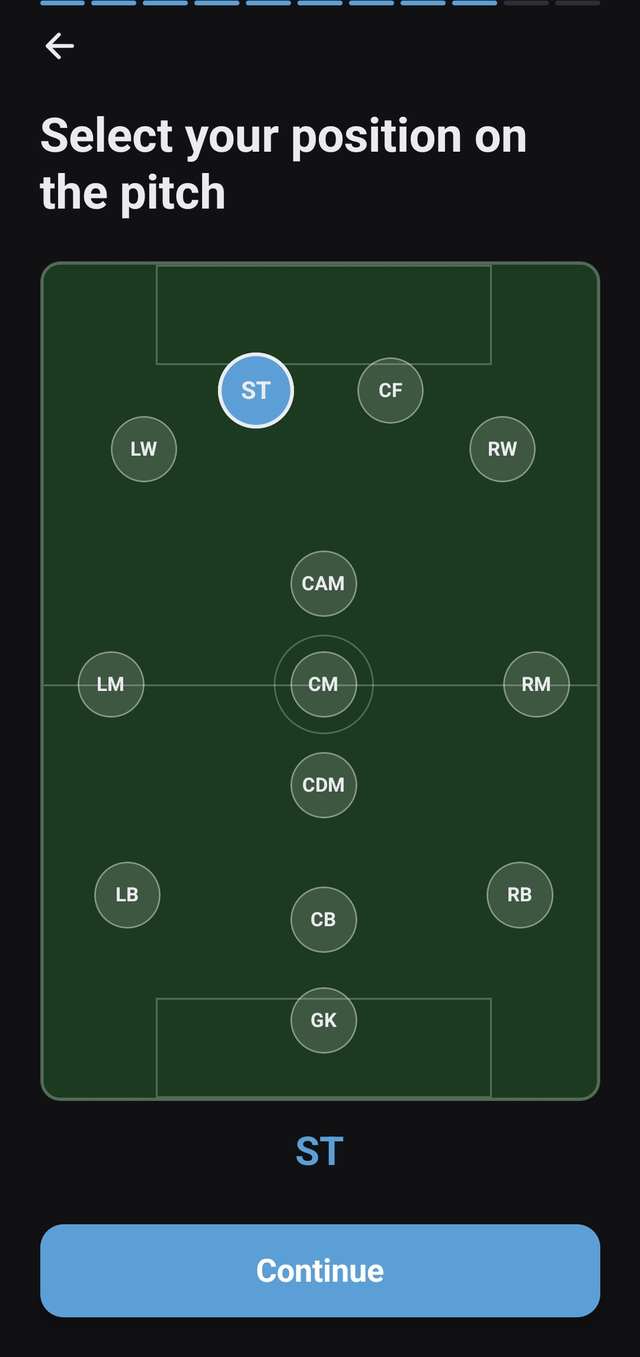
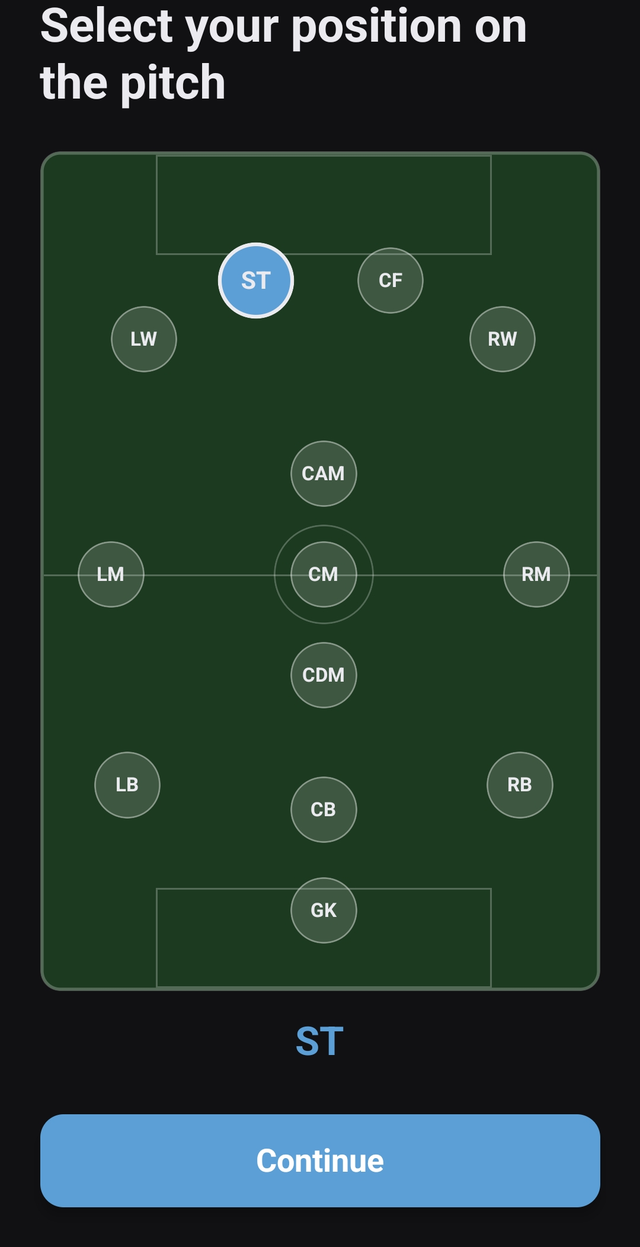
Polish hero, phone frames, mobile nav, and screenshots
- Add hamburger MobileNav for <md viewports
- Stronger phone-frame border (white/25), drop fake notch
- Crop iOS back-arrow / progress dashes off three screenshots
- Hero: prominent uppercase "Download / Pobierz" CTA above badges
- UsedBy mobile: stretch cells so grid bg doesn't bleed below shorter cards
- Ignore *.bak (local screenshot backups)

diff --git a/components/MobileNav.tsx b/components/MobileNav.tsx
@@ -1,0 +1,75 @@
+"use client";
+
+import Link from "next/link";
+import { usePathname } from "next/navigation";
+import { useEffect, useState } from "react";
+
+interface NavItem {
+  href: string;
+  label: string;
+}
+
+interface Props {
+  nav: NavItem[];
+}
+
+export function MobileNav({ nav }: Props) {
+  const [open, setOpen] = useState(false);
+  const pathname = usePathname();
+
+  useEffect(() => {
+    setOpen(false);
+  }, [pathname]);
+
+  return (
+    <>
+      <button
+        type="button"
+        onClick={() => setOpen((v) => !v)}
+        aria-label={open ? "Close menu" : "Open menu"}
+        aria-expanded={open}
+        aria-controls="mobile-nav-panel"
+        className="md:hidden inline-flex items-center justify-center w-9 h-9 rounded-full border border-white/15 bg-white/5 text-white/80 hover:text-white transition-colors"
+      >
+        <span className="relative block w-4 h-3">
+          <span
+            className={`absolute left-0 right-0 h-px bg-current transition-all duration-200 ${
+              open ? "top-1/2 rotate-45" : "top-0"
+            }`}
+          />
+          <span
+            className={`absolute left-0 right-0 top-1/2 h-px bg-current transition-opacity duration-200 ${
+              open ? "opacity-0" : "opacity-100"
+            }`}
+          />
+          <span
+            className={`absolute left-0 right-0 h-px bg-current transition-all duration-200 ${
+              open ? "top-1/2 -rotate-45" : "bottom-0"
+            }`}
+          />
+        </span>
+      </button>
+
+      {open && (
+        <nav
+          id="mobile-nav-panel"
+          className="md:hidden absolute left-0 right-0 top-full border-b border-white/5 bg-background/95 backdrop-blur-xl"
+        >
+          <ul className="px-5 py-3 flex flex-col gap-1 text-base text-white/80">
+            {nav.map((item) => (
+              <li key={item.href}>
+                <Link
+                  href={item.href}
+                  className="block px-2 py-3 rounded-lg hover:bg-white/5 hover:text-white transition-colors"
+                  onClick={() => setOpen(false)}
+                >
+                  {item.label}
+                </Link>
+              </li>
+            ))}
+          </ul>
+        </nav>
+      )}
+    </>
+  );
+}

diff --git a/components/Header.tsx b/components/Header.tsx
@@ -4,6 +4,7 @@ import type { Locale } from "@/lib/locales";
 import type { Dictionary } from "@/app/[locale]/dictionaries";
 import { DownloadBadges } from "./DownloadBadges";
 import { LanguageSwitcher } from "./LanguageSwitcher";
+import { MobileNav } from "./MobileNav";
 
 interface Props {
   locale: Locale;
@@ -21,7 +22,7 @@ export function Header({ locale, dict }: Props) {
 
   return (
     <header className="sticky top-0 z-50 backdrop-blur-xl bg-background/70 border-b border-white/5">
-      <div className="mx-auto max-w-7xl px-5 lg:px-8 h-14 sm:h-16 lg:h-[72px] xl:h-20 2xl:h-24 flex items-center justify-between gap-6">
+      <div className="relative mx-auto max-w-7xl px-5 lg:px-8 h-14 sm:h-16 lg:h-[72px] xl:h-20 2xl:h-24 flex items-center justify-between gap-6">
         <Link href={base} className="flex items-center shrink-0" aria-label="Drillr">
           <Image
             src="/logo-full.png"
@@ -57,6 +58,7 @@ export function Header({ locale, dict }: Props) {
               size="sm"
             />
           </div>
+          <MobileNav nav={nav} />
         </div>
       </div>
     </header>

diff --git a/components/PhoneFrame.tsx b/components/PhoneFrame.tsx
@@ -18,10 +18,8 @@ export function PhoneFrame({ children, className = "", variant = "primary" }: Pr
         style={{ background: `radial-gradient(closest-side, ${glowColor}, transparent)` }}
       />
       {/* Frame */}
-      <div className="relative mx-auto w-[280px] sm:w-[300px] md:w-[320px] aspect-[9/19] rounded-[2.75rem] bg-gradient-to-b from-[#1a1a1f] to-[#0a0a0a] border border-white/10 shadow-2xl shadow-black/50 p-2.5">
+      <div className="relative mx-auto w-[280px] sm:w-[300px] md:w-[320px] aspect-[9/19] rounded-[2.75rem] bg-gradient-to-b from-[#1a1a1f] to-[#0a0a0a] border border-white/25 shadow-2xl shadow-black/50 p-2.5">
         <div className="relative w-full h-full rounded-[2.25rem] overflow-hidden bg-[#0a0a0a]">
-          {/* Notch */}
-          <div className="absolute left-1/2 -translate-x-1/2 top-2 z-10 h-6 w-24 rounded-full bg-black border border-white/5" />
           {/* Screen content */}
           <div className="absolute inset-0">{children ?? <PhonePlaceholder variant={variant} />}</div>
         </div>

diff --git a/components/home/Hero.tsx b/components/home/Hero.tsx
@@ -47,6 +47,10 @@ export function Hero({ dict }: Props) {
             className="animate-hero-rise mt-9"
             style={{ animationDelay: "620ms" }}
           >
+            <p className="flex items-center gap-2.5 mb-4 text-xl font-semibold uppercase tracking-[0.15em] text-white">
+              <span>{dict.hero.downloadCta}</span>
+              <span aria-hidden className="text-primary text-3xl leading-none">↓</span>
+            </p>
             <DownloadBadges
               appStoreLabel={dict.common.downloadAppStore}
               googlePlayLabel={dict.common.downloadGooglePlay}

diff --git a/components/home/UsedBy.tsx b/components/home/UsedBy.tsx
@@ -20,8 +20,8 @@ export function UsedBy({ dict }: Props) {
         </Reveal>
         <div className="grid grid-cols-2 md:grid-cols-4 gap-px bg-white/5 rounded-2xl overflow-hidden border border-white/5">
           {dict.usedBy.stats.map((stat, i) => (
-            <Reveal key={stat.label} delay={i * 90}>
-              <div className="bg-background p-8 text-center">
+            <Reveal key={stat.label} delay={i * 90} className="h-full">
+              <div className="bg-background p-8 text-center h-full">
                 <div className="text-3xl sm:text-4xl font-bold tracking-tight text-primary">
                   <CountUp value={stat.value} />
                 </div>

diff --git a/components/home/StickyStory.tsx b/components/home/StickyStory.tsx
@@ -76,9 +76,8 @@ export function StickyStory({ dict }: Props) {
                   background: `radial-gradient(closest-side, ${ACCENTS[active]}55, transparent)`,
                 }}
               />
-              <div className="relative mx-auto w-[260px] sm:w-[300px] aspect-[9/19] rounded-[2.75rem] bg-gradient-to-b from-[#1a1a1f] to-[#0a0a0a] border border-white/10 shadow-2xl shadow-black/50 p-2.5">
+              <div className="relative mx-auto w-[260px] sm:w-[300px] aspect-[9/19] rounded-[2.75rem] bg-gradient-to-b from-[#1a1a1f] to-[#0a0a0a] border border-white/25 shadow-2xl shadow-black/50 p-2.5">
                 <div className="relative w-full h-full rounded-[2.25rem] overflow-hidden bg-[#111113]">
-                  <div className="absolute left-1/2 -translate-x-1/2 top-2 z-20 h-6 w-24 rounded-full bg-black border border-white/5" />
                   {steps.map((step, i) => (
                     <div
                       key={i}